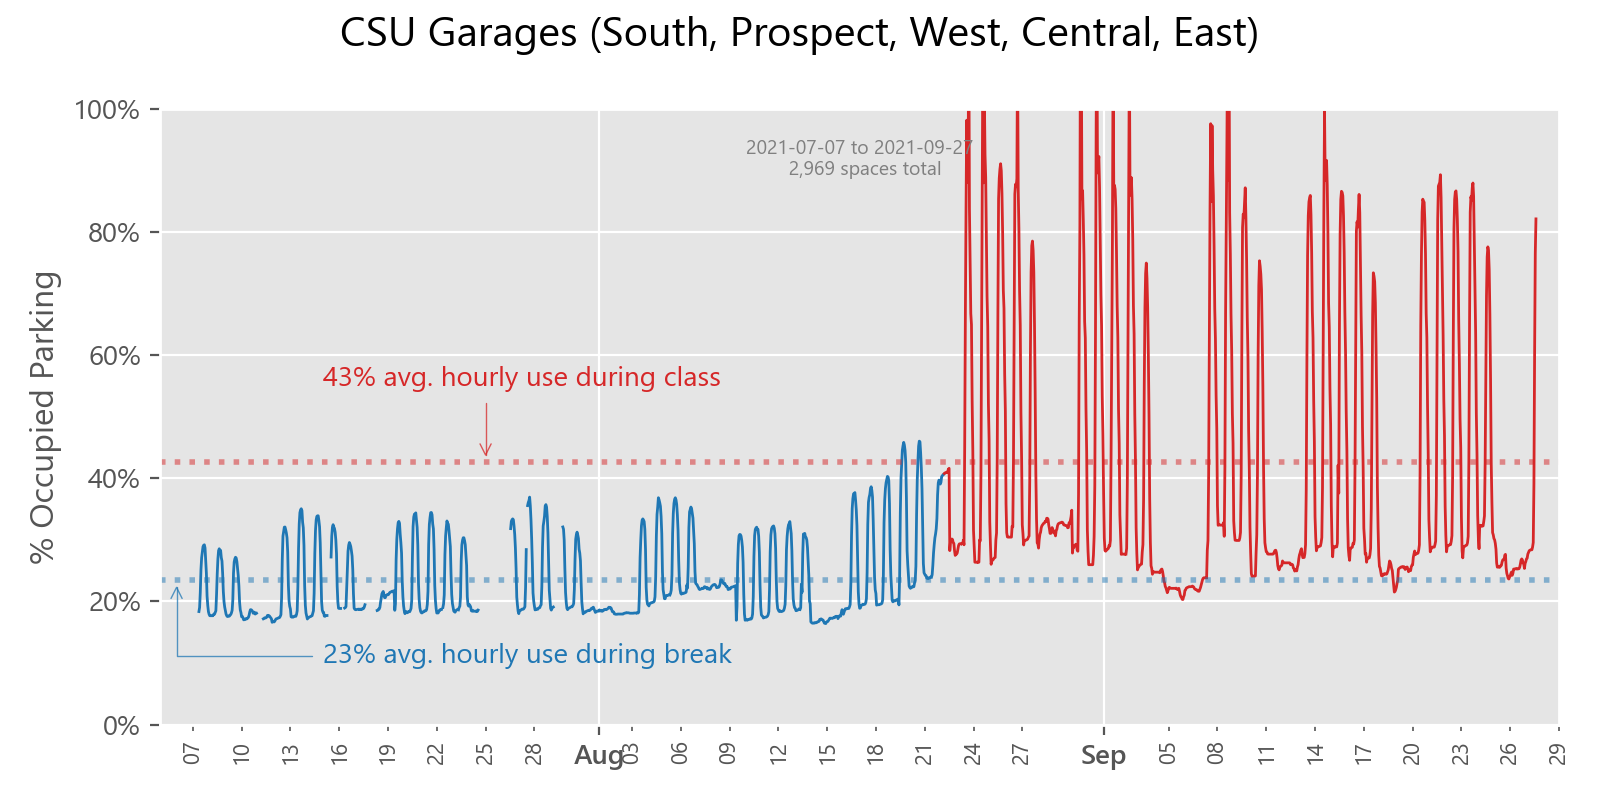
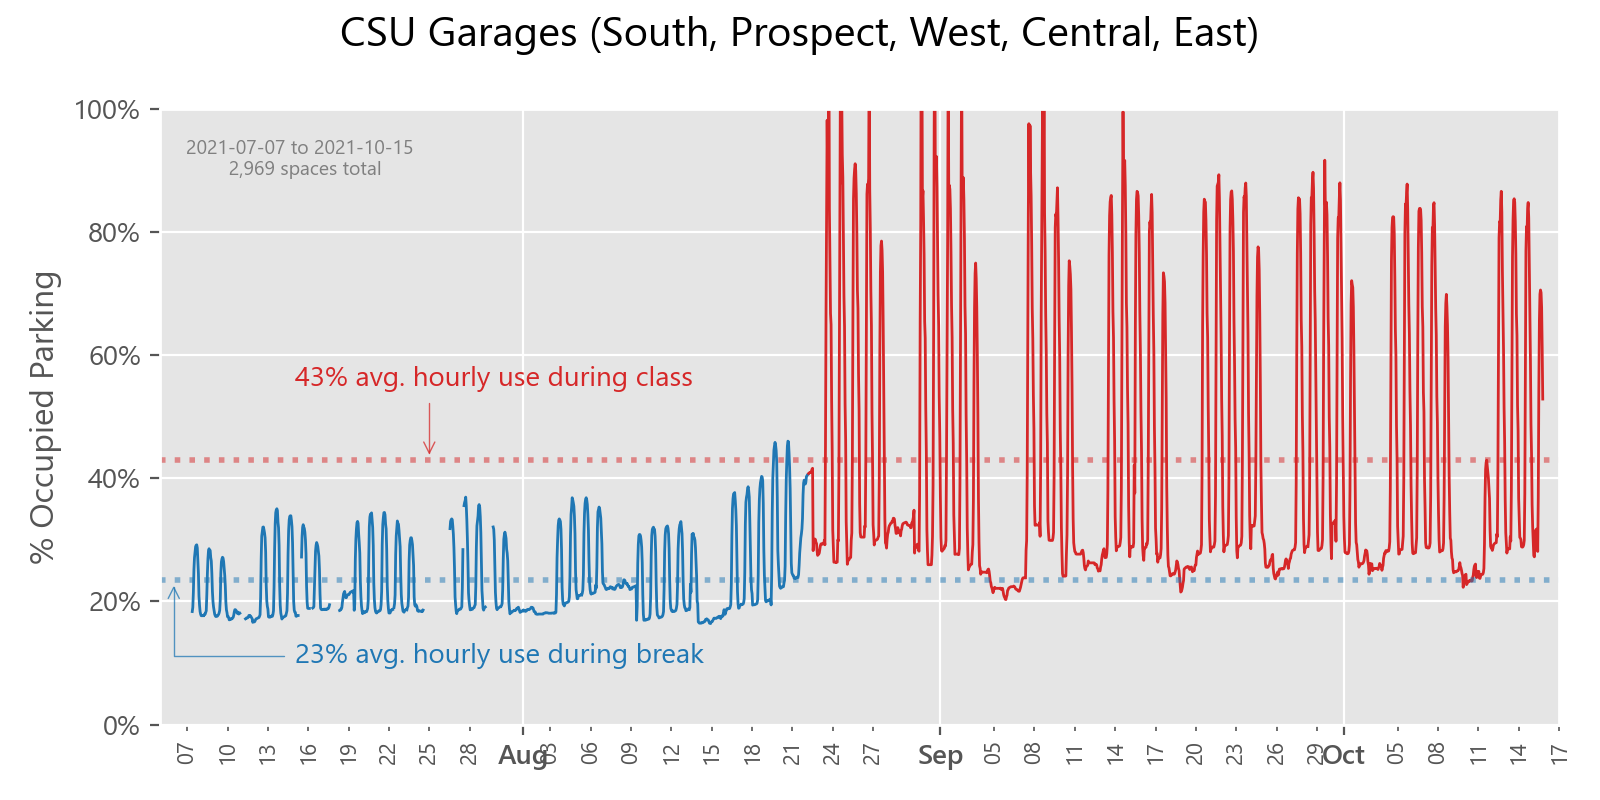
Scrape update 10-15

diff --git a/charts.py b/charts.py
@@ -72,7 +72,7 @@ plt.annotate(f'{average_use_school:.0%} avg. hourly use during class', xy=(date_
              arrowprops={'arrowstyle': '->', 'connectionstyle': "angle,angleA=180,angleB=90", 'color': 'tab:red',
                          'lw': '.5', 'alpha': 0.75})
 
-plt.text(.5, .95, f'{date_min + 2} to {date_max - 2}\n  {capacity_total:,d} spaces total', size=7, va='top', c='gray',
+plt.text(.1, .95, f'{date_min + 2} to {date_max - 2}\n  {capacity_total:,d} spaces total', size=7, va='top', c='gray',
          ha='center', transform=ax.transAxes)
 
 plt.suptitle(f'CSU Garages (South, Prospect, West, Central, East)', size=15)
